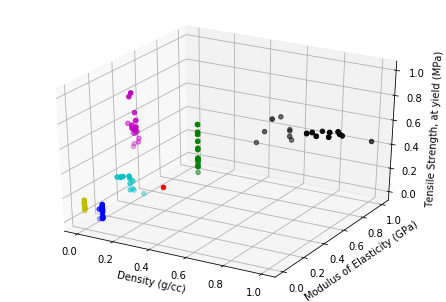
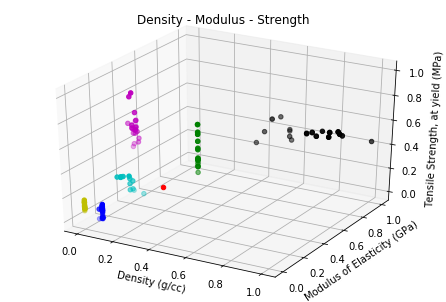
knearest, top materials, return materials, percentage

Changed region(s): [[0.4372, 0.0298, 0.5538, 0.0894], [0.583, 0.0298, 0.6996, 0.0894], [0.2915, 0.0298, 0.4081, 0.0894]]

diff --git a/Final_Project.py b/Final_Project.py
@@ -155,7 +155,9 @@ def graphdata3D(density, modulus, strength, classification, test_array):
     ax.set_xlabel("Density (g/cc)")
     ax.set_ylabel("Modulus of Elasticity (GPa)")
     ax.set_zlabel("Tensile Strength, at yield (MPa)")
+    plt.title("Density - Modulus - Strength")
     plt.savefig("density_strength_modulus.png", bbox_inches = "tight")
+    plt.show()
 
 def distancearray(ndensity, nmodulus, nstrength, density, modulus, strength):
     distance = np.zeros(len(density))
@@ -198,7 +200,6 @@ def knearestneighbor(k, ndensity, nmodulus, nstrength, density, modulus, strengt
         finalclassification = 4
     elif (count_5 > count_0) and (count_5 > count_1) and (count_5 > count_2) and (count_5 > count_3) and (count_5 > count_4):
         finalclassification = 5
-    print(finalclassification)
     return finalclassification
 
 
@@ -219,13 +220,9 @@ def topmaterials(finalclassification, ndensity, nmodulus, nstrength, density, mo
                     p += 1
                 else:
                     break
-    #later - ensure knearest agrees with nearest and that p = 0 == finalclassification
     return top_array, top_distance_array
     
-#def denormalize
-    #denormalize the data
-    
-def returnmaterials(top_array, final_classification):
+def returnmaterials(top_array, final_classification, top_distance_array):
     #return classification of material and three most likely materials
     #first material classification
     if final_classification == 0:
@@ -268,47 +265,76 @@ def returnmaterials(top_array, final_classification):
         third_material = "Zinc"
     elif top_array[2] == 5:
         third_material = "Titanium"
-        
-    print("The first choice in material is ", first_material)
-    print("The second choice in material is ", second_material)
-    print("The third choice in material is ", third_material)
+    
+    percentage_array = np.zeros(3)
+    for i in range(len(top_distance_array)):
+        percentage_array[i] = 1 - top_distance_array[i]
+    
+    print("\nThe first choice in material is ", first_material)
+    print("Likelihood of this material: ", round((percentage_array[0])*100, 3), "%")
+    print("\nThe second choice in material is ", second_material)
+    print("Likelihood of this material: ", round((percentage_array[1])*100, 3), "%") 
+    print("\nThe third choice in material is ", third_material)
+    print("Likelihood of this material: ", round((percentage_array[2])*100, 3), "%")
     
     return first_material, second_material, third_material
     #return classifications of top three closest points of different material
     #return a percentage correlating to how close the test case was to each
     #return denormalized data corresponding to these materials
     
-def returnpercentage(top_distance_array):
-    percentage_array = np.zeros(3)
-    for i in range(len(top_distance_array)):
-        percentage_array[i] = 1 - top_distance_array[i]
-    
-    print("\nLikelihood of first material: ", (percentage_array[0])*100, "%")
-    print("Likelihood of second material: ", (percentage_array[1])*100, "%")   
-    print("Likelihood of third material: ", (percentage_array[2])*100, "%")
-    
-    return percentage_array
+def denormalize(density, modulus, strength, data_array, d_min, d_max, m_min, m_max, s_min, s_max):
+    for i in range(len(density)):
+        density[i] = (density[i]+d_min)*(d_max - d_min)
+        data_array[i, 0] = density[i]
+    for index in range(len(modulus)):
+        modulus[index] = (modulus[index]+ m_min)*(m_max - m_min)
+        data_array[index, 1] = modulus[index]
+    for index in range(len(strength)):
+        strength[index] = (strength[index]+ s_min)*(s_max - s_min)
+        data_array[index, 2] = strength[index] 
+    return density, modulus, strength, data_array
 
 def returnproperty(density, modulus, strength, classification):
     magnesium = np.zeros(3)
-    magnesium[0] = sum(density[classification == 0])/len(density[classification ==0])
-    magneisum[1] = sum(modulus[classification == 0])/len(modulus[classification ==0])
-    magnesium[2] = sum(strength[classification == 0])/len(strength[classification ==0])
-    aluminum[0] = sum(density[classification == 1])/len(density[classification ==1])
-    aluminum[1] = sum(modulus[classification == 1])/len(modulus[classification ==1])
-    aluminum[2] = sum(strength[classification == 1])/len(strength[classification ==1])
-    steel[0] = sum(density[classification == 2])/len(density[classification ==2])
-    steel[1] = sum(modulus[classification == 2])/len(modulus[classification ==2])
-    steel[2] = sum(strength[classification == 2])/len(strength[classification ==2])
-    tungsten[0] = sum(density[classification == 3])/len(density[classification ==3])
-    tungsten[1] = sum(modulus[classification == 3])/len(modulus[classification ==3])
-    tungsten[2] = sum(strength[classification == 2])/len(strength[classification ==3])
-    zinc[0] = sum(density[classification == 4])/len(density[classification ==4])
-    zinc[1] = sum(modulus[classification == 4])/len(modulus[classification ==4])
-    zinc[2] = sum(strength[classification == 4])/len(strength[classification ==4])
-    titanium[0] = sum(density[classification == 5])/len(density[classification ==5])
-    titanium[1] = sum(modulus[classification == 5])/len(modulus[classification ==5])
-    titanium[2] = sum(strength[classification == 5])/len(strength[classification ==5])
+    aluminum = np.zeros(3)
+    steel = np.zeros(3)
+    tungsten = np.zeros(3)
+    zinc = np.zeros(3)
+    titanium = np.zeros(3)
+    
+    magnesium[0] = round(sum(density[classification == 0])/len(density[classification ==0]), 3)
+    magnesium[1] = round(sum(modulus[classification == 0])/len(modulus[classification ==0]), 3)
+    magnesium[2] = round(sum(strength[classification == 0])/len(strength[classification ==0]), 3)
+    aluminum[0] = round(sum(density[classification == 1])/len(density[classification ==1]), 3)
+    aluminum[1] = round(sum(modulus[classification == 1])/len(modulus[classification ==1]), 3)
+    aluminum[2] = round(sum(strength[classification == 1])/len(strength[classification ==1]), 3)
+    steel[0] = round(sum(density[classification == 2])/len(density[classification ==2]), 3)
+    steel[1] = round(sum(modulus[classification == 2])/len(modulus[classification ==2]), 3)
+    steel[2] = round(sum(strength[classification == 2])/len(strength[classification ==2]), 3)
+    tungsten[0] = round(sum(density[classification == 3])/len(density[classification ==3]), 3)
+    tungsten[1] = round(sum(modulus[classification == 3])/len(modulus[classification ==3]), 3)
+    tungsten[2] = round(sum(strength[classification == 2])/len(strength[classification ==3]), 3)
+    zinc[0] = round(sum(density[classification == 4])/len(density[classification ==4]), 3)
+    zinc[1] = round(sum(modulus[classification == 4])/len(modulus[classification ==4]), 3)
+    zinc[2] = round(sum(strength[classification == 4])/len(strength[classification ==4]), 3)
+    titanium[0] = round(sum(density[classification == 5])/len(density[classification ==5]), 3)
+    titanium[1] = round(sum(modulus[classification == 5])/len(modulus[classification ==5]), 3)
+    titanium[2] = round(sum(strength[classification == 5])/len(strength[classification ==5]), 3)
+    
+
+    data = [magnesium, aluminum, steel, tungsten, zinc, titanium]
+    
+    columns = ("Density (g/cc)", "Modulus of Elasticty (GPa)", "Tensile Strength (MPa)")
+    rows = ["Magnesium", "Aluminum", "Steel", "Tungsten", "Zinc", "Titanium"]
+    
+    colors = plt.cm.BuPu(np.linspace(0, 0.5, len(rows)))
+ 
+    fig, axs =plt.subplots(figsize = (8,2.3))
+    axs.axis('off')
+    axs.table(cellText= data,rowLabels=rows, rowColours=colors, colLabels=columns, loc='center')
+    plt.title("Properties of All Materials")
+    plt.show()
+
     
 
 #Call functions
@@ -320,6 +346,6 @@ graphdata3D(den, mod, stren, classif, test_case)
 distance_array = distancearray(test_case[0,0], test_case[0,1], test_case[0,2], den, mod, stren)
 finalclass = knearestneighbor(5, test_case[0,0], test_case[0,1], test_case[0,2], den, mod, stren, classif)
 top_materials_array, top_dist_array = topmaterials(finalclass, test_case[0,0], test_case[0,1], test_case[0,2], den, mod, stren, classif)
-first_mat, second_mat, third_mat = returnmaterials(top_materials_array, finalclass)
-percent_array = returnpercentage(top_dist_array)
-properties = returnproperty(den, mod, stren, classif)
+first_mat, second_mat, third_mat = returnmaterials(top_materials_array, finalclass, top_dist_array)
+den, mod, stren, prop_array = denormalize(den, mod, stren, prop_array, d_min, d_max, m_min, m_max, s_min, s_max)
+returnproperty(den, mod, stren, classif)
